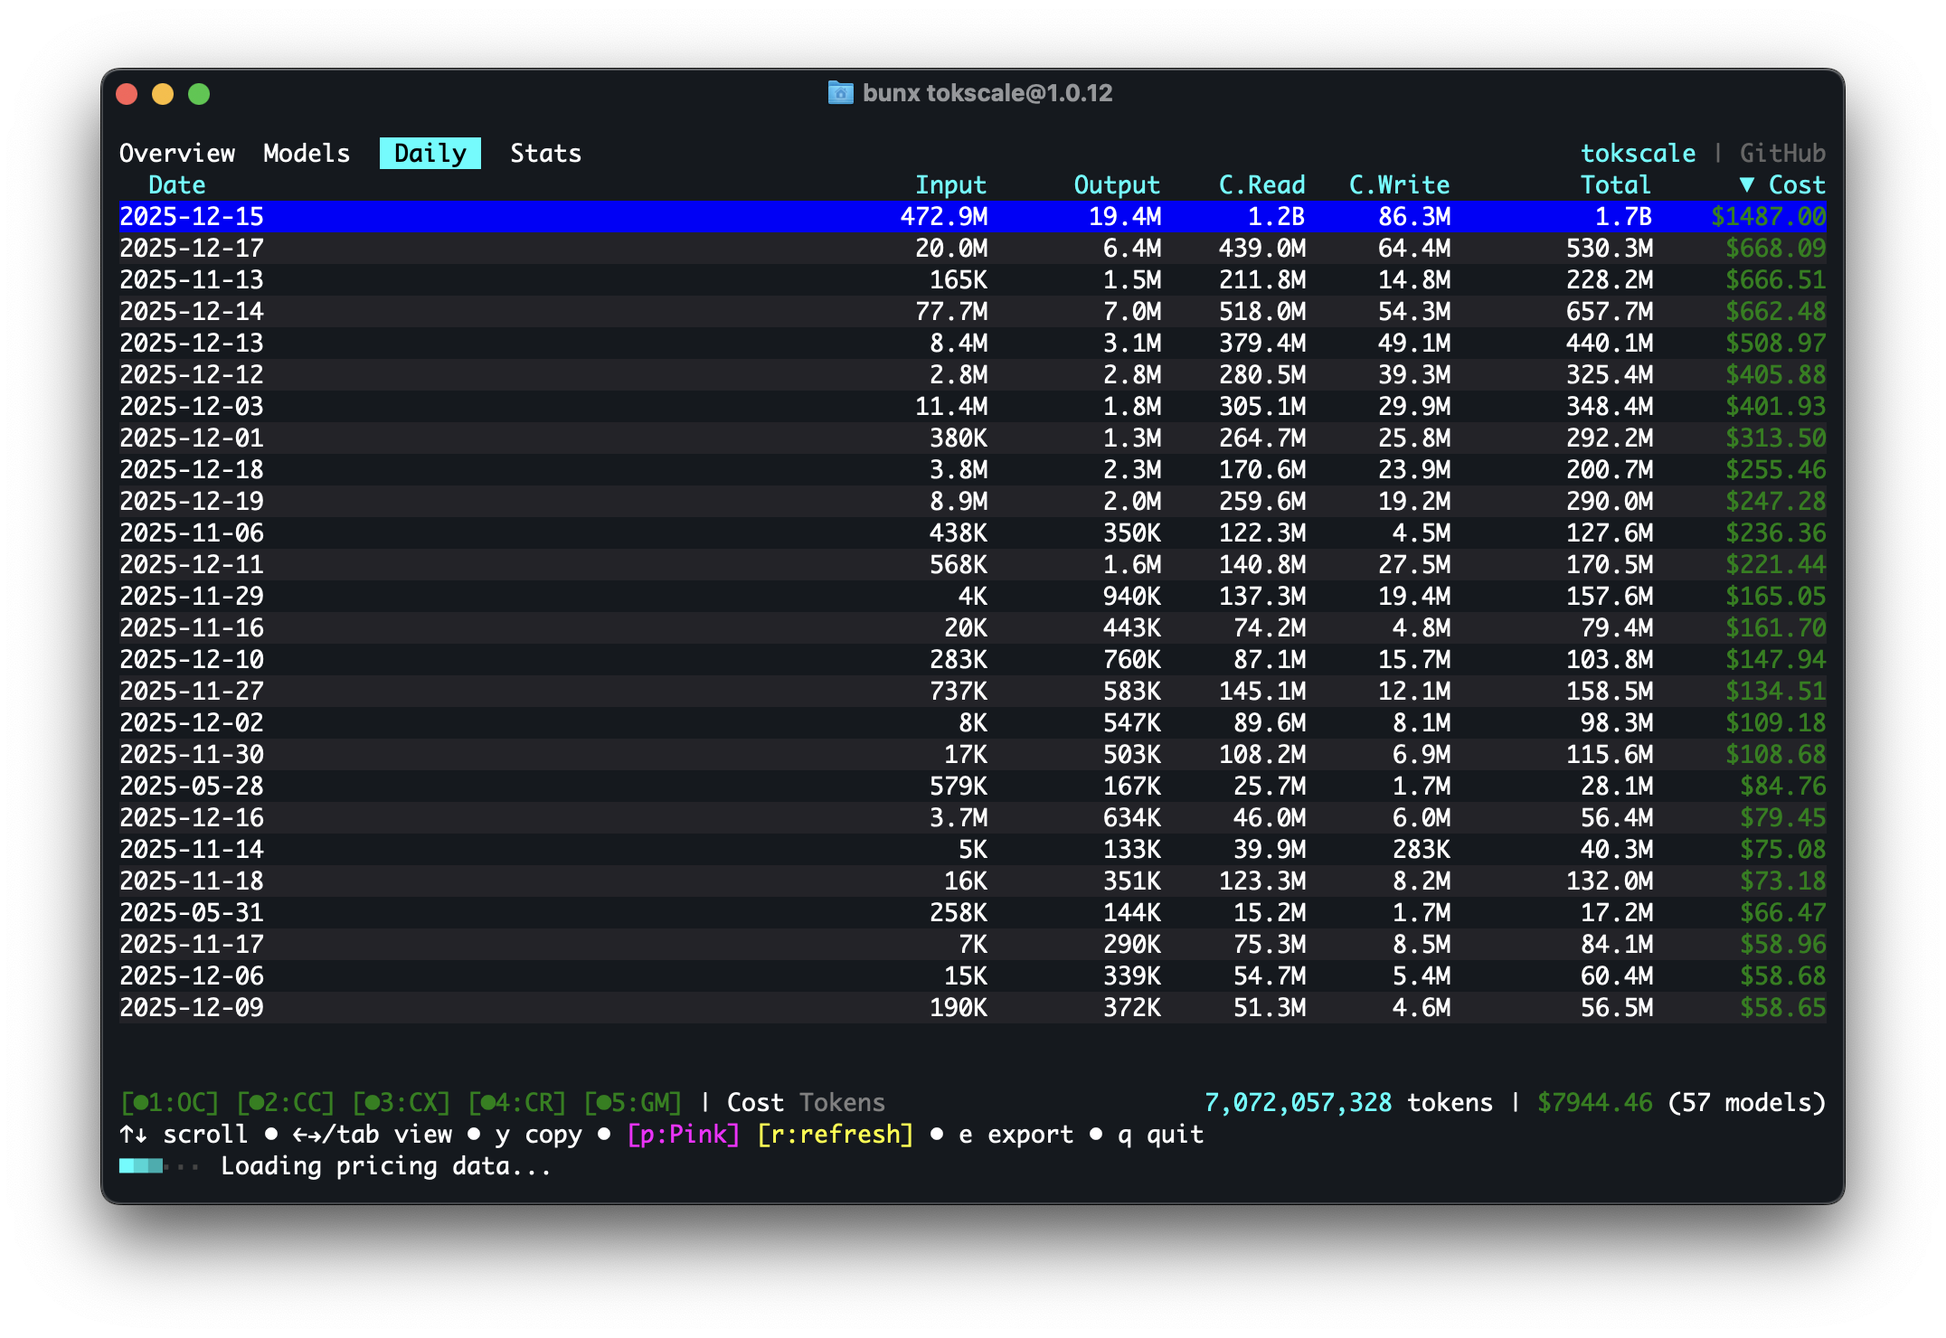
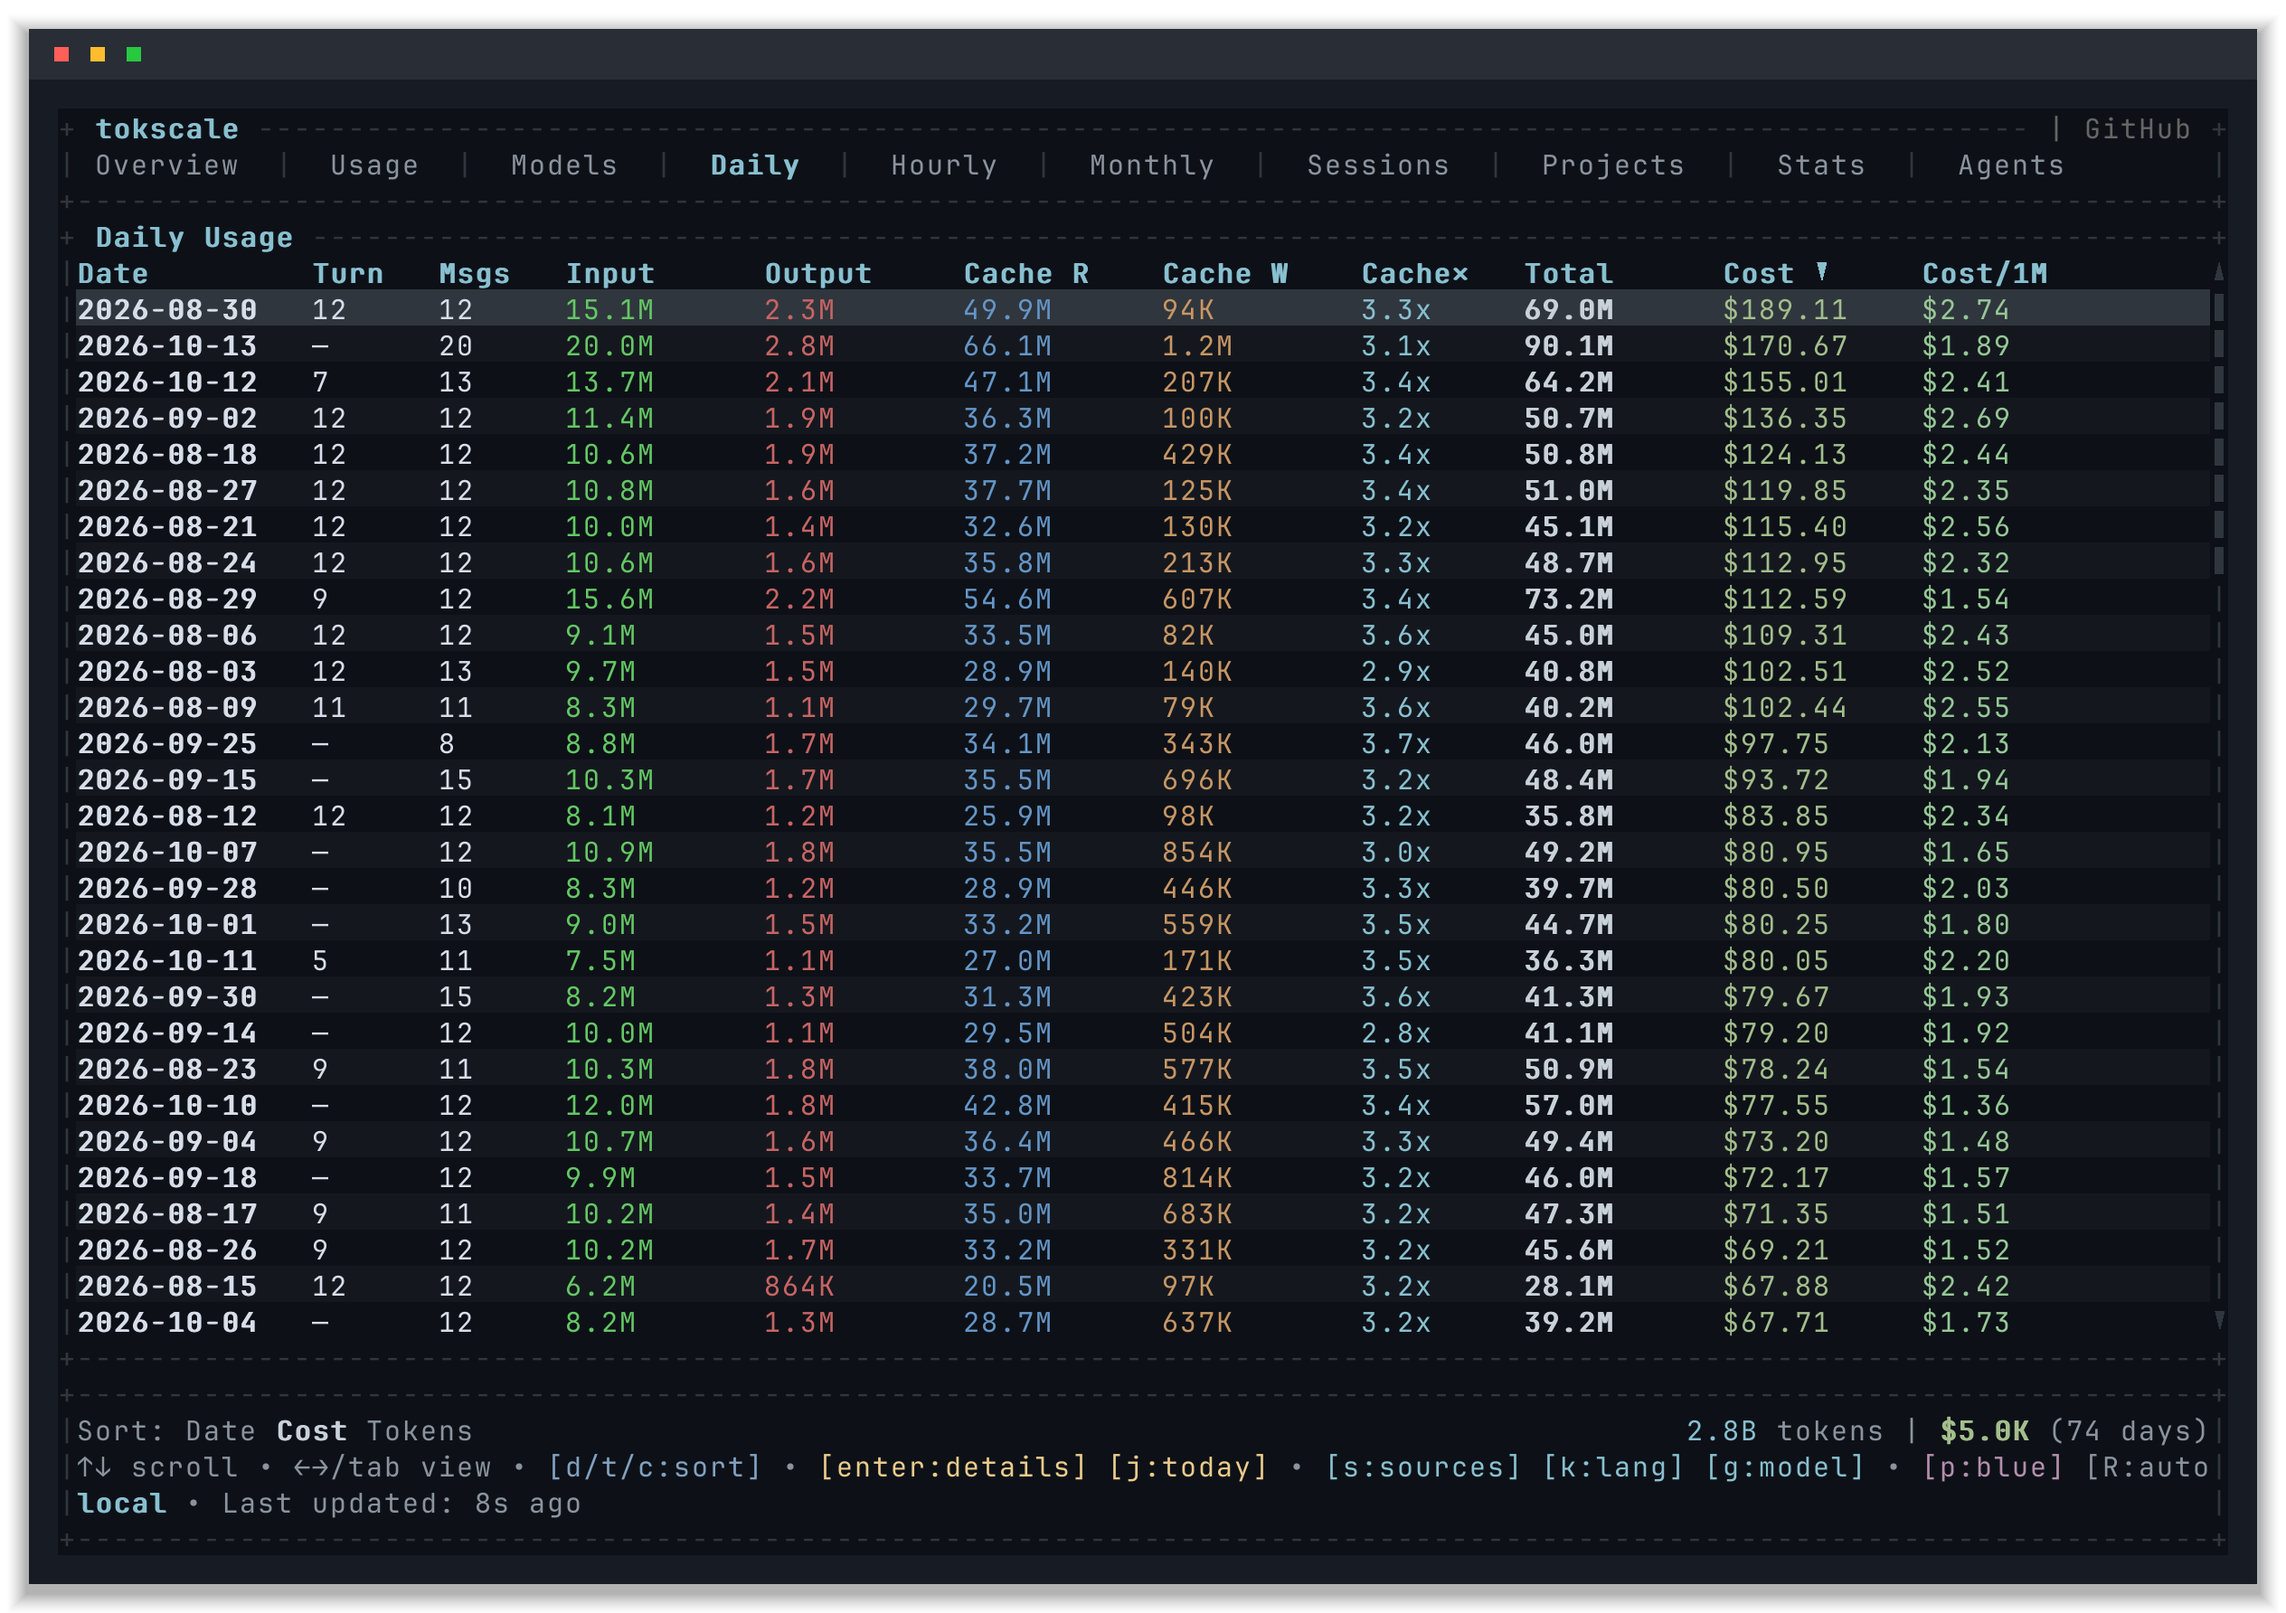
docs(readme): refresh TUI screenshots

diff --git a/README.ja.md b/README.ja.md
@@ -292,6 +292,10 @@ tokscale models --json > report.json   # ファイルに保存
 
 インタラクティブTUIモードは以下を提供します：
 
+セッションビューでは、各セッションのメタデータ、アクティビティ、トークン内訳、コストを確認できます：
+
+![TUIセッション詳細](.github/assets/tui-sessions.png)
+
 - **10のビュー**: 概要（チャート + トップモデル）、Usage（サブスクリプションクォータ）、モデル、日別、時間別、月別、セッション、プロジェクト（ワークスペース別ロールアップ）、統計（貢献グラフ）、エージェント。プロジェクトでは、Codex Desktop の通常のチャットディレクトリ（`Documents/Codex/YYYY-MM-DD/<chat>`）はセッション数・トークン・コストを保持したまま **Codex Chat** に統合され、Git リポジトリを含むディレクトリは分離されたままになります。分単位の Minutely ビューはデフォルトで非表示で、`settings.json` の `minutelyTabEnabled` で有効化できます — [設定](#設定)を参照
 - **キーボードナビゲーション**:
   - `←/→/Tab/BackTab`: ビュー切り替え

diff --git a/README.ko.md b/README.ko.md
@@ -288,6 +288,10 @@ tokscale models --json > report.json   # 파일로 저장
 
 인터랙티브 TUI 모드는 다음을 제공합니다:
 
+세션 뷰에서 세션별 메타데이터, 활동, 토큰 내역, 비용을 확인할 수 있습니다:
+
+![TUI 세션 상세](.github/assets/tui-sessions.png)
+
 - **10개 뷰**: 개요 (차트 + 상위 모델), Usage (구독 할당량), 모델, 일별, 시간별, 월별, 세션, 프로젝트 (워크스페이스별 집계), 통계 (기여 그래프), 에이전트. 프로젝트 뷰에서는 Codex Desktop의 일반 채팅 디렉터리(`Documents/Codex/YYYY-MM-DD/<chat>`)가 세션 수·토큰·비용을 보존한 채 **Codex Chat**으로 통합되며, Git 저장소를 포함한 디렉터리는 별도로 유지됩니다. 분 단위 뷰(Minutely)는 기본적으로 숨겨져 있으며 `settings.json`의 `minutelyTabEnabled`로 활성화할 수 있습니다 — [설정](#설정) 참조
 - **키보드 내비게이션**:
   - `←/→/Tab/BackTab`: 뷰 전환

diff --git a/README.md b/README.md
@@ -290,6 +290,10 @@ tokscale models --json > report.json   # Save to file
 
 The interactive TUI mode provides:
 
+Inspect session metadata, activity, token breakdowns, and cost from the Sessions view:
+
+![TUI Session Details](.github/assets/tui-sessions.png)
+
 - **10 Views**: Overview (chart + top models), Usage (subscription quotas), Models, Daily, Hourly, Monthly, Sessions, Projects (per-workspace rollups), Stats (contribution graph), Agents. In Projects, Codex Desktop's ordinary chat directories (`Documents/Codex/YYYY-MM-DD/<chat>`) are combined into **Codex Chat**, preserving their session count, tokens, and cost; directories containing a Git repository remain separate. A per-minute view (Minutely) is hidden by default and can be enabled with `minutelyTabEnabled` in `settings.json` — see [Configuration](#configuration)
 - **Keyboard Navigation**:
   - `←/→/Tab/BackTab`: Switch views

diff --git a/README.zh-cn.md b/README.zh-cn.md
@@ -289,6 +289,10 @@ tokscale models --json > report.json   # 保存到文件
 
 交互式 TUI 模式提供：
 
+在会话视图中，可查看每个会话的元数据、活动、Token 明细和成本：
+
+![TUI 会话详情](.github/assets/tui-sessions.png)
+
 - **10 个视图**：概览（图表 + 热门模型）、Usage（订阅配额）、模型、每日、每时、每月、会话、项目（按工作区汇总）、统计（贡献图）、代理。在项目视图中，Codex Desktop 的普通聊天目录（`Documents/Codex/YYYY-MM-DD/<chat>`）会被合并为 **Codex Chat**，并保留其会话数、token 和成本；包含 Git 仓库的目录保持独立。按分钟视图（Minutely）默认隐藏，可在 `settings.json` 中通过 `minutelyTabEnabled` 启用 —— 参见[配置](#配置)
 - **键盘导航**：
   - `←/→/Tab/BackTab`：切换视图
